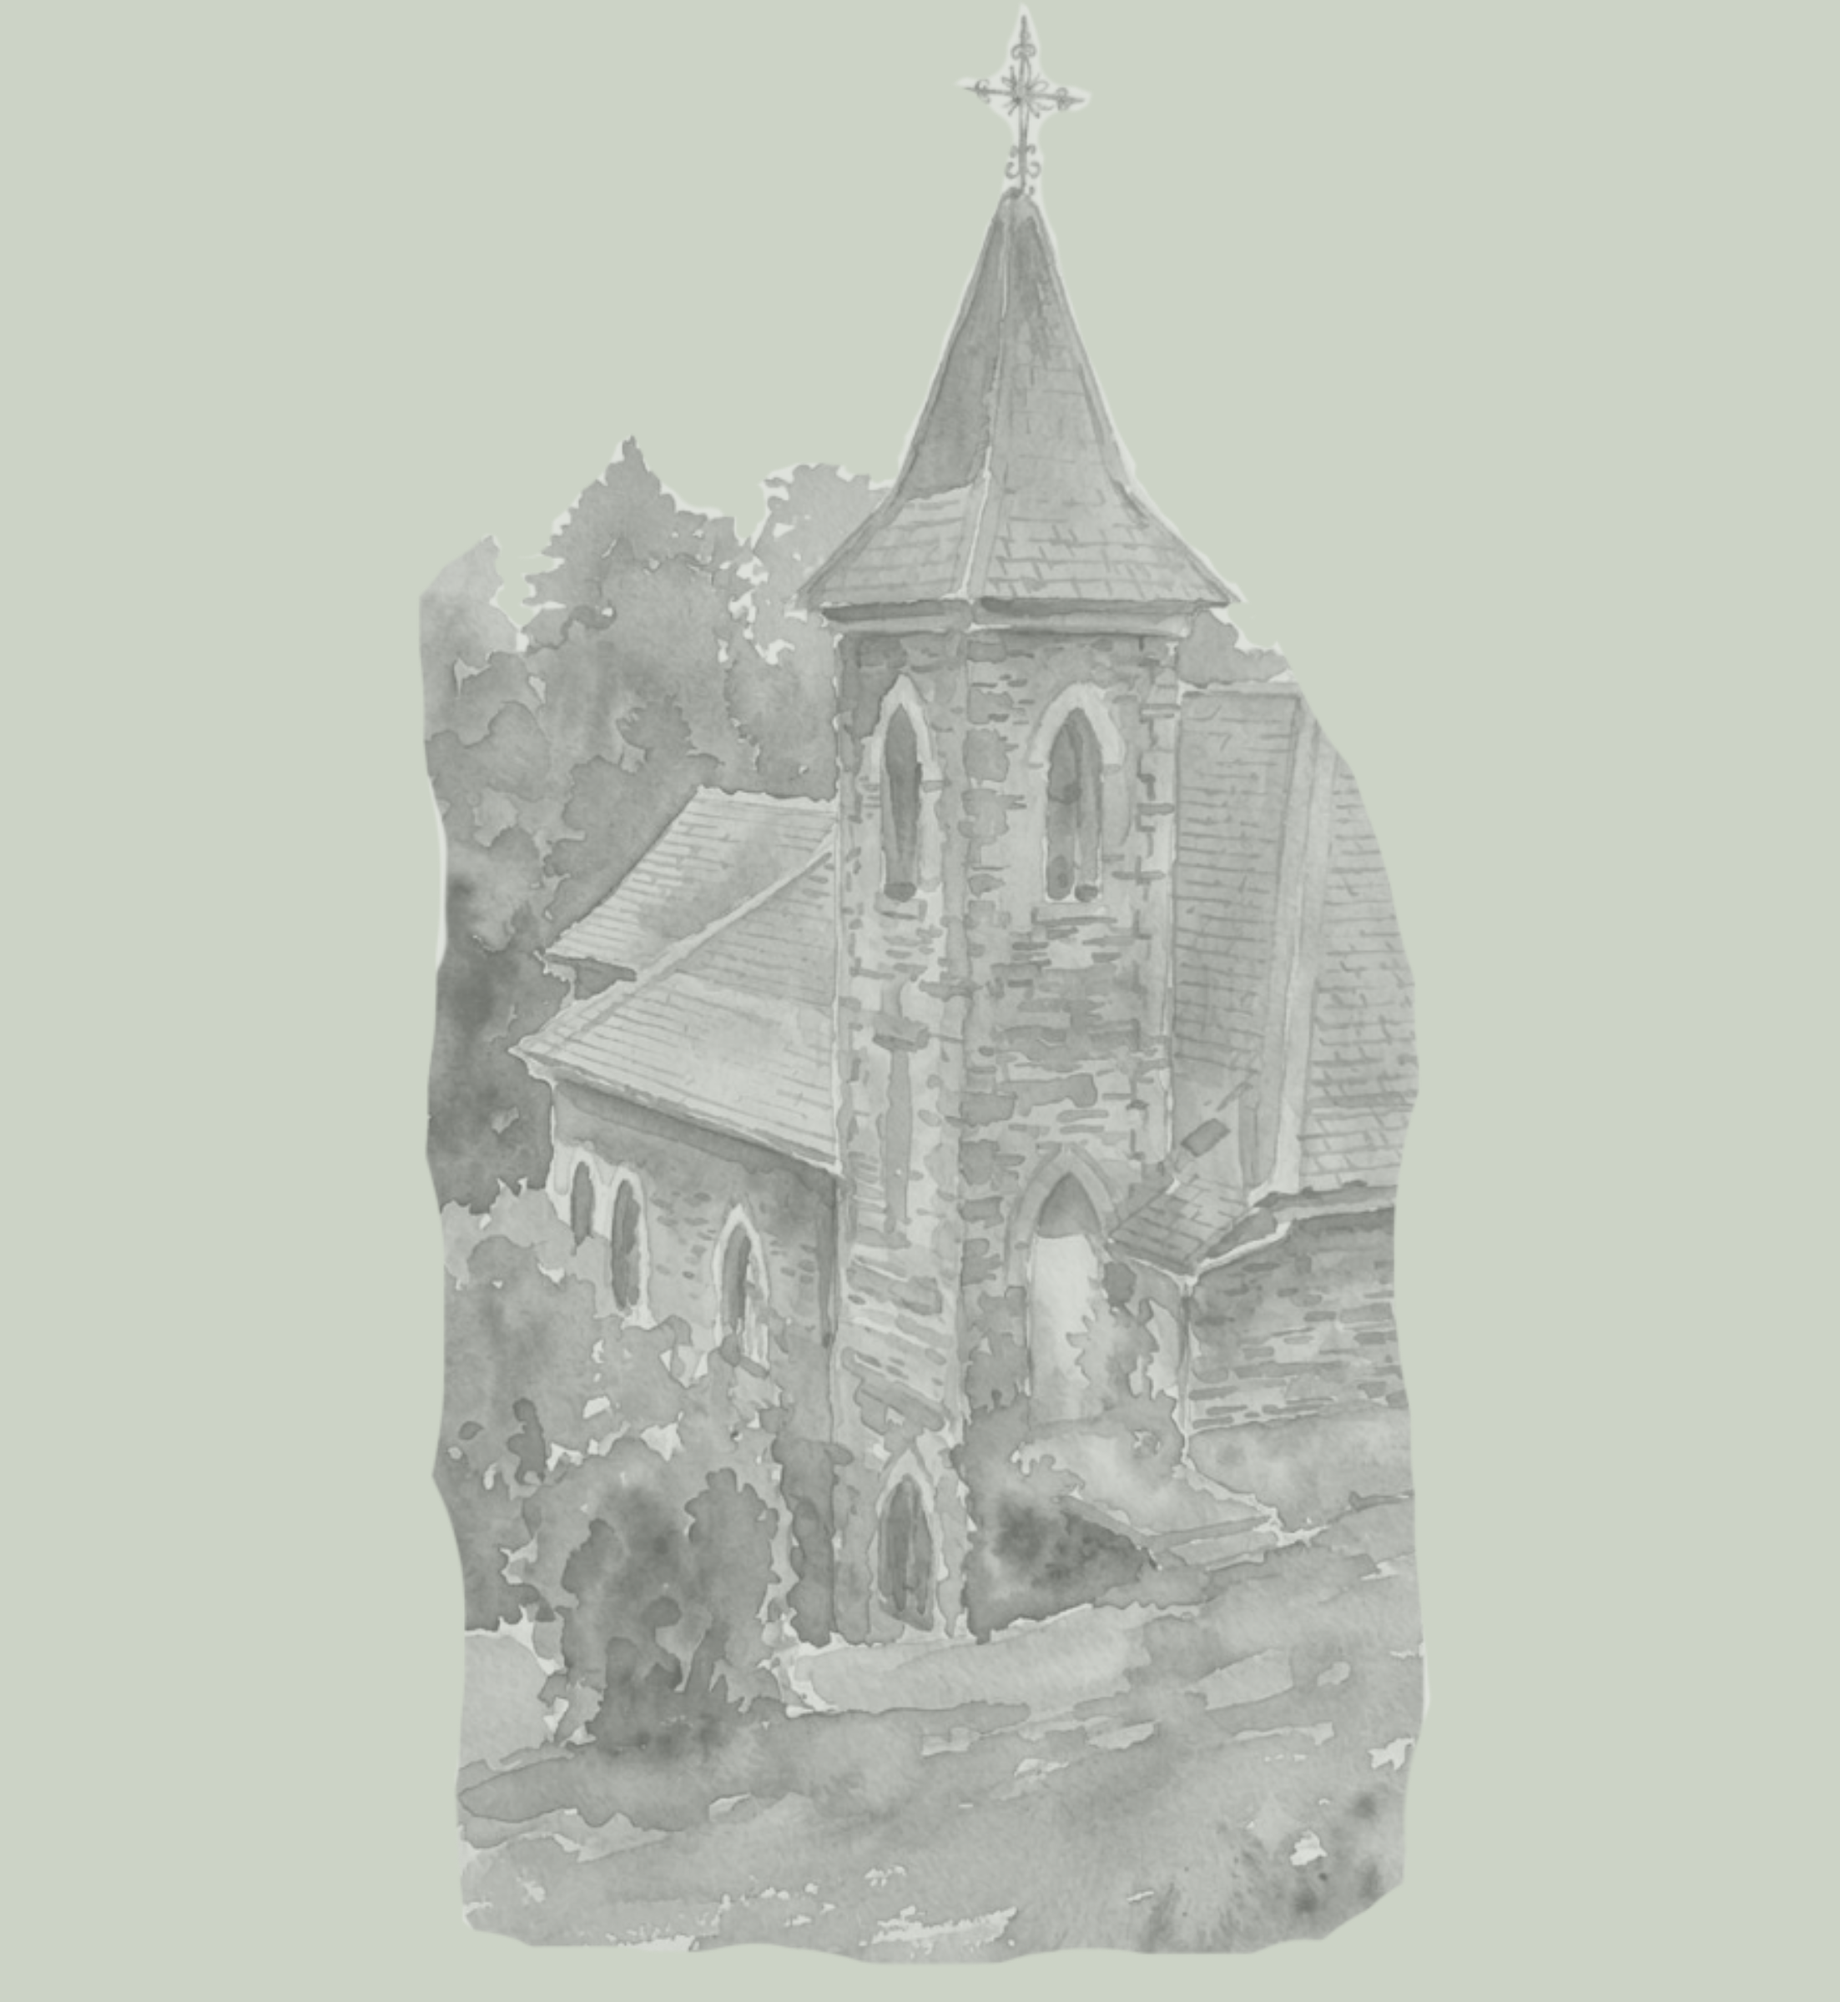
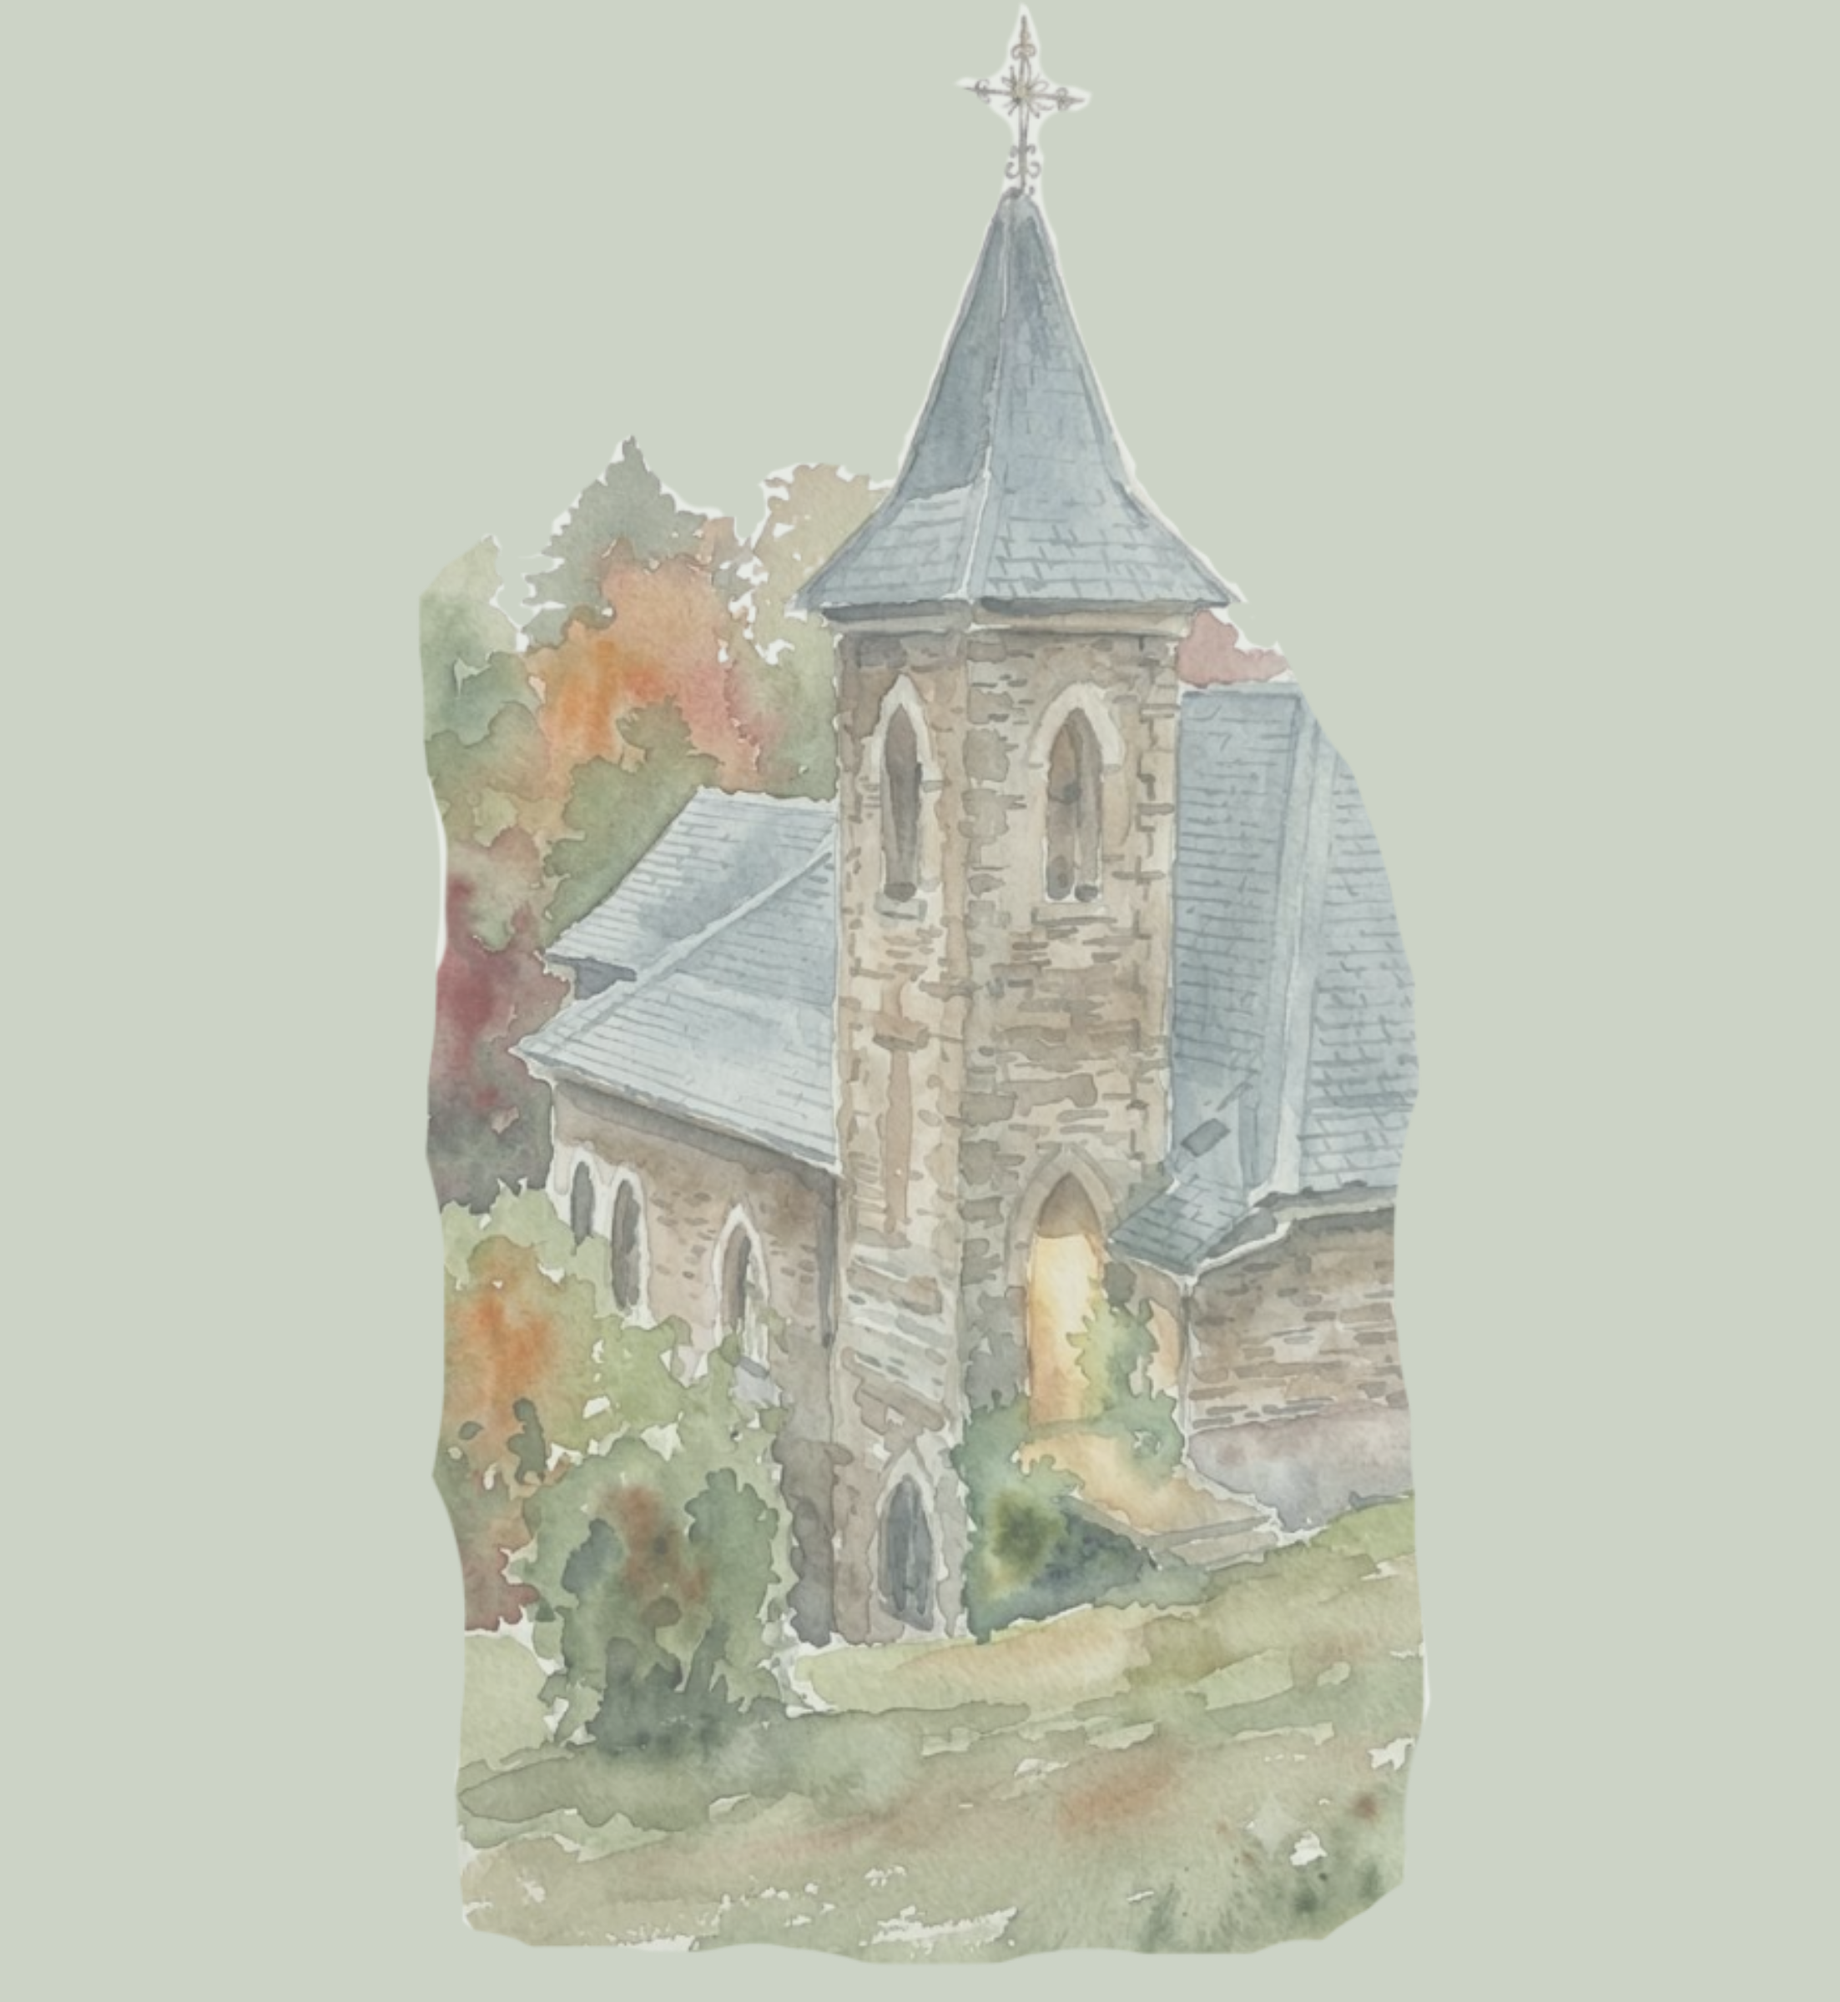
a j

diff --git a/src/app/Amparo&Julian(x1)/page.jsx b/src/app/Amparo&Julian(x1)/page.jsx
@@ -7,7 +7,9 @@ import imgSquare2 from "../../../public/amparoJulian/ajPortada.png";
 import imgppal from "../../../public/amparoJulian/ajPortada.png";
 import imgCeremonia from "../../../public/amparoJulian/ajCeremonia.png";
 import imgFiesta from "../../../public/amparoJulian/ajFiesta.png";
+import imgFotos from "../../../public/amparoJulian/ajFotos.png";
 import { Playfair_Display, Cormorant_SC } from "next/font/google";
+import Image from "next/image";
 import React from "react";
 
 const playfairDisplay = Playfair_Display({
@@ -134,6 +136,11 @@ CBU: 0170215844000066003164
           showIcon={false}
           showVerButton={false}
           mainTitleClass={titleFontClass}
+        />
+        <Image
+          src={imgFotos}
+          alt="Fotos"
+          className="w-full max-w-md object-contain my-6"
         />
       </main>
       <Footer footerClassName={`${buttonBgColor} h-[57px]`} />
